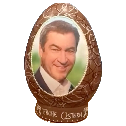
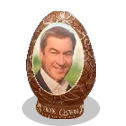
[#222] changed bayern theme slightly

diff --git a/shared/src/main/java/org/ctf/shared/wave/WaveFunctionCollapse.java b/shared/src/main/java/org/ctf/shared/wave/WaveFunctionCollapse.java
@@ -1,6 +1,7 @@
 package org.ctf.shared.wave;
 
 import java.awt.Graphics;
+
 import java.awt.Graphics2D;
 import java.awt.geom.AffineTransform;
 import java.awt.image.BufferedImage;
@@ -12,7 +13,6 @@ import java.io.IOException;
 import java.util.ArrayList;
 import java.util.Comparator;
 import java.util.LinkedList;
-import java.util.Stack;
 
 /**
  * Instantiate this class when creating a background with the wave function collapse algorithm. Idea
@@ -116,32 +116,13 @@ public class WaveFunctionCollapse {
 
     // Place the Pieces, Bases and Blocks if we want to use them as input for the algorithm
     if (theme == Themes.STARWARS) {
-      for (int y = 0; y < grid.length; y++) {
-        for (int x = 0; x < grid[0].length; x++) {
-          if (grid[y][x] == null) {
-            intGrid[y * 3 + 1][x * 3 + 1] = 0;
-          } else if (grid[y][x].contains("p") || grid[y][x].contains("b:")) { //players and base
-            intGrid[y * 3][x * 3] = 1;
-            intGrid[y * 3][x * 3 + 1] = 1;
-            intGrid[y * 3][x * 3 + 2] = 1;
-
-            intGrid[y * 3 + 1][x * 3] = 1;
-            intGrid[y * 3 + 1][x * 3 + 1] = 1;
-            intGrid[y * 3 + 1][x * 3 + 2] = 1;
-
-            intGrid[y * 3 + 2][x * 3] = 1;
-            intGrid[y * 3 + 2][x * 3 + 1] = 1;
-            intGrid[y * 3 + 2][x * 3 + 2] = 1;
+      for (int y = 0; y < intGrid.length; y++) {
+        for (int x = 0; x < intGrid[0].length; x++) {
+          if (grid[y/3][x/3] == null) {
+            intGrid[y/3][x/3] = 0;
+          } else if (grid[y/3][x/3].contains("p") || grid[y/3][x/3].contains("b:")) { //players and base
+            intGrid[y][x] = 1;
           }
-          /*
-           * else if(grid[y][x].equals("b")) {
-           * 
-           * intGrid[y*3][x*3] = 2; intGrid[y*3][x*3+1] = 2; intGrid[y*3][x*3+2] = 2;
-           * 
-           * intGrid[y*3+1][x*3] = 2; intGrid[y*3+1][x*3+1] = 2; intGrid[y*3+1][x*3+2] = 2;
-           * 
-           * intGrid[y*3+2][x*3] = 2; intGrid[y*3+2][x*3+1] = 2; intGrid[y*3+2][x*3+2] = 2; }
-           */
         }
       }
     } else if (theme == Themes.LOTR) {
@@ -224,16 +205,15 @@ public class WaveFunctionCollapse {
 
       // two approaches how to handle a dead end (no possible images left for a particular tile)
       if (thisTile.options.size() == 0) {
-        if (false && this.theme == Themes.LOTR) {
-          return generateBackground(grid);  // option 1: just start over. works for
+
+          //return generateBackground(grid);// option 1: just start over. works for
                                             // some patterns. takes wayy too long for others
-         }
-        else {
+
           thisTile.collapsed = true;        // option 2: just skip the tile that does not work 
           continue;
                                             // option 3 would be backtracking 
                                             // but I could not get it to work
-        }
+        
       }
 
       // choose which tile to use at random ( with weights assigned in Tile.getWeights() )
@@ -370,7 +350,7 @@ public class WaveFunctionCollapse {
   }
   
   /**
-   * Controller method used in the gridToImg method to choose which images to load according to the
+   * Controller used in the gridToImg method to choose which images to load according to the
    * theme used.
    * 
    * @param theme
@@ -386,13 +366,13 @@ public class WaveFunctionCollapse {
       return loadBayernImages();
     }
     else if(theme == Themes.LOTR) {
-      return loadKnotImages();
+      return loadLOTRImages();
     }
     else return null;
   }
   
   /**
-   * Preloads the images used in the Star Wars pattern. The pattern was originally inspired by a pattern called "circuits" designed by 
+   * Pre-loads the images used in the Star Wars pattern. The pattern was originally inspired by a pattern called "circuits" designed by 
    * @return
    * @throws IOException
    */
@@ -400,7 +380,7 @@ public class WaveFunctionCollapse {
     BufferedImage[] images = new BufferedImage[imagesAmount+6];
 
         block =  ImageIO.read(new File(Constants.toUIResources + "pictures" + File.separator +"Block.png"));
-        base = ImageIO.read(new File(Constants.toUIResources + "pictures" + File.separator +"tuning1.png"));
+        base = ImageIO.read(new File(Constants.toUIResources + "pictures" + File.separator +"BaseSW.png"));
           images[0] = ImageIO.read(new File(Constants.toUIResources + "pictures" + File.separator +"c2.png"));
         
         for(int i = 1, c = 1; c <= imagesAmount+4; i++) {
@@ -423,13 +403,14 @@ public class WaveFunctionCollapse {
   }
   
   /**
-   * Preloads the images used in the Lord of the Rings pattern. The pattern was originally drawn by
+   * Pre-loads the images used in the Lord of the Rings pattern. The pattern was originally drawn by
    * Hermann Hillmann and found on the WaveFunctionCollapse github page (see header).
    * 
    * @return
    * @throws IOException
    */
-  private BufferedImage[] loadLOTRImages() throws IOException {
+  @Deprecated
+  private BufferedImage[] loadLOTRImagesOld() throws IOException {
     BufferedImage[] images = new BufferedImage[imagesAmount+1];
     images[0] = ImageIO.read(new File(Constants.toUIResources + "pictures" + File.separator +"l1.png"));
     block = ImageIO.read(new File(Constants.toUIResources + "pictures" + File.separator +"tree.png"));
@@ -443,27 +424,29 @@ public class WaveFunctionCollapse {
   }
   
   /**
-   * Preloads the images used in the Bayern pattern. 
+   * Pre-loads the images used in the Bayern pattern. 
    * 
    * @return
    * @throws IOException
    */
   private BufferedImage[] loadBayernImages() throws IOException {
+    int franken = (int) (Math.random() * 20);
+    String bayern = franken == 1 ? "Franken.png" : "Bayern.png";
     BufferedImage[] images = new BufferedImage[imagesAmount+1];
     block = ImageIO.read(new File(Constants.toUIResources + "pictures" + File.separator +"noweed.png"));
     base = ImageIO.read(new File(Constants.toUIResources + "pictures" + File.separator +"Ei.png"));
     images[0] = ImageIO.read(new File(Constants.toUIResources + "pictures" + File.separator +"p1.png"));
-    images[1] = ImageIO.read(new File(Constants.toUIResources + "pictures" + File.separator +"Bayern.png"));
-    images[2] = this.rotateImageByDegrees(ImageIO.read(new File(Constants.toUIResources + "pictures" + File.separator +"Bayern.png")),90);
-    images[3] = this.rotateImageByDegrees(ImageIO.read(new File(Constants.toUIResources + "pictures" + File.separator +"Bayern.png")),180);
-    images[4] = this.rotateImageByDegrees(ImageIO.read(new File(Constants.toUIResources + "pictures" + File.separator +"Bayern.png")),270);
+    images[1] = ImageIO.read(new File(Constants.toUIResources + "pictures" + File.separator + bayern));
+    images[2] = this.rotateImageByDegrees(ImageIO.read(new File(Constants.toUIResources + "pictures" + File.separator + bayern)),90);
+    images[3] = this.rotateImageByDegrees(ImageIO.read(new File(Constants.toUIResources + "pictures" + File.separator + bayern)),180);
+    images[4] = this.rotateImageByDegrees(ImageIO.read(new File(Constants.toUIResources + "pictures" + File.separator + bayern)),270);
     return images;
     
   }
   
   @Deprecated
   private BufferedImage[] loadRoomImages() throws IOException {
-    //Imageamount = 28
+    //Image amount = 28
     
     BufferedImage[] images = new BufferedImage[imagesAmount+1];
     block = ImageIO.read(new File(Constants.toUIResources + "pictures" + File.separator +"tree.png"));
@@ -490,7 +473,7 @@ public class WaveFunctionCollapse {
     return images;
   }
   
-  private BufferedImage[] loadKnotImages() throws IOException{
+  private BufferedImage[] loadLOTRImages() throws IOException{
     BufferedImage[] images = new BufferedImage[imagesAmount+1];
     block = ImageIO.read(new File(Constants.toUIResources + "pictures" + File.separator +"tree.png"));
     base = ImageIO.read(new File(Constants.toUIResources + "pictures" + File.separator +"tuning1.png"));
@@ -591,8 +574,6 @@ public class WaveFunctionCollapse {
     at.rotate(rads, x, y);
     g2d.setTransform(at);
     g2d.drawImage(img, 0, 0, null);
-    // g2d.setColor(Color.RED);
-    // g2d.drawRect(0, 0, newWidth - 1, newHeight - 1);
     g2d.dispose();
 
     return rotated;

diff --git a/shared/src/main/java/org/ctf/shared/wave/WaveGrid.java b/shared/src/main/java/org/ctf/shared/wave/WaveGrid.java
@@ -17,13 +17,21 @@ public class WaveGrid {
   
   public int[][] grid; // saves the grid with the images
   public ArrayList<Tile> tiles; // saves all the tiles in one loooong array
-  TileType[] rules;;
+  TileType[] rules; // a copy to save the rules for all INDIVIDUAL tiles as refernce
   Themes theme;
 
   // **************************************************
   // Constructor
   // **************************************************
 
+  /**
+   * Initializes the int[][] grid and the tiles List. Creates tiles and fills them with rules from
+   * the ruleset.
+   * 
+   * @param grid
+   * @param images
+   * @param theme
+   */
   public WaveGrid(int[][] grid, int images, Themes theme) {
     
     this.theme = theme;
@@ -43,8 +51,8 @@ public class WaveGrid {
         tiles.add(thisTile);
       }
     }
-    this.setOptions();
-    this.setRules();
+    this.setOptions();  // initializes every non-collapsed tile with all options 
+    this.setRules();    // sets the rules and updates the options accordingly
   }
 
   // **************************************************
@@ -80,7 +88,7 @@ public class WaveGrid {
   // **************************************************
   
   /**
-   * adds every single image to the initial set of options (coded as integers 1-x)
+   * Adds every single image to the initial set of options (coded as integers 1-x).
    * 
    * @param pictures
    */

diff --git a/shared/src/main/java/org/ctf/shared/wave/Tile.java b/shared/src/main/java/org/ctf/shared/wave/Tile.java
@@ -43,9 +43,15 @@ public class Tile {
   // Package methods
   // **************************************************
 
-  void removeFromOptions(int r, Tile t) {
+  /**
+   * removes the TileType with the specified int value from the options array;
+   * 
+   * @param toRemove
+   * @param t
+   */
+  void removeFromOptions(int toRemove, Tile t) {
     if (t != null) {
-      t.options.remove(Integer.valueOf(r));
+      t.options.remove(Integer.valueOf(toRemove));
     }
   }
 
@@ -61,7 +67,12 @@ public class Tile {
   int getValue() {
     return value;
   }
-  
+
+  /**
+   * Sets a value without updating the grid. Use with caution.
+   * 
+   * @param value
+   */
   void setValueSimple(int value) {
     this.value = value;
     if (this.parentGrid != null) {
@@ -69,6 +80,11 @@ public class Tile {
     }
   }
 
+  /**
+   * Collapses one tile and changes the options around it accordingly.
+   * 
+   * @param value
+   */
   void setValue(int value) {
     this.value = value;
     if (this.parentGrid != null) {
@@ -80,6 +96,11 @@ public class Tile {
     this.options = new ArrayList<Integer>();
   }
   
+  /**
+   * Controller decides what weights are used according to the theme.
+   * 
+   * @return
+   */
   int[] getWeights() {
     if(this.parentGrid.theme == Themes.STARWARS) {
       return getStarWarsWeights();
